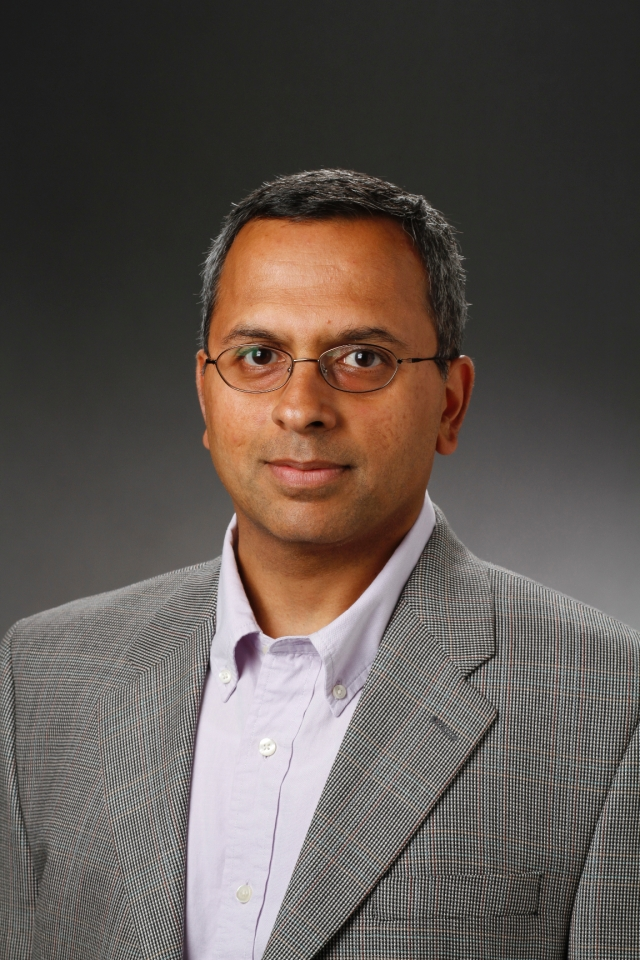
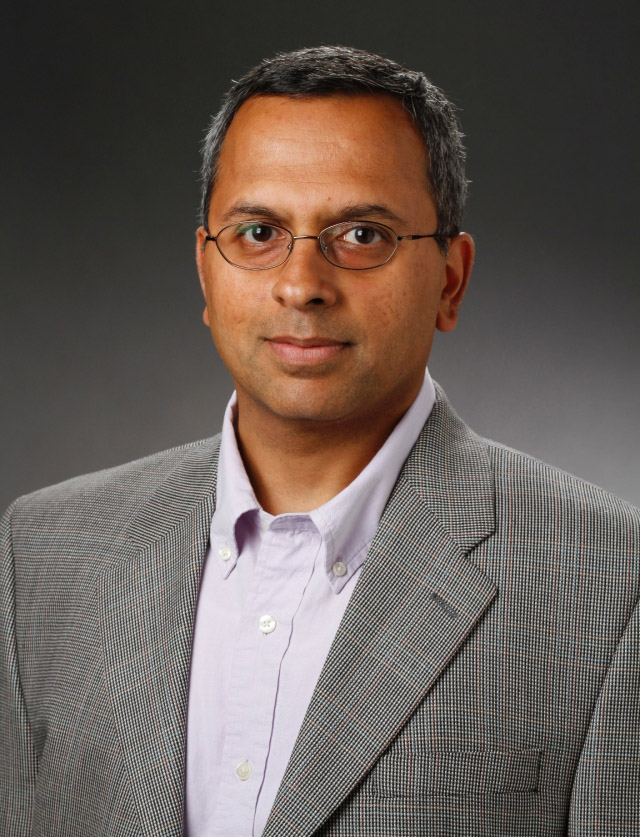
speakers images

diff --git a/content/speakers/index.md b/content/speakers/index.md
@@ -50,7 +50,7 @@ speakers:
     firstname: 'Deepak'
     lastname: 'Nadig'
     url: 'https://mobile.twitter.com/deepak_nadig'
-    photo: 'user.png'
+    photo: 'Deepak Nadig.jpg'
     desc: ''
   9:
     firstname: 'Daniel'
@@ -140,7 +140,7 @@ speakers:
     firstname: 'Maciek'
     lastname: 'Próchniak'
     url: 'https://twitter.com/mpproch'
-    photo: 'user.png'
+    photo: 'Maciek Próchniak.png'
     desc: ''
   24:
     firstname: 'Marcin'
